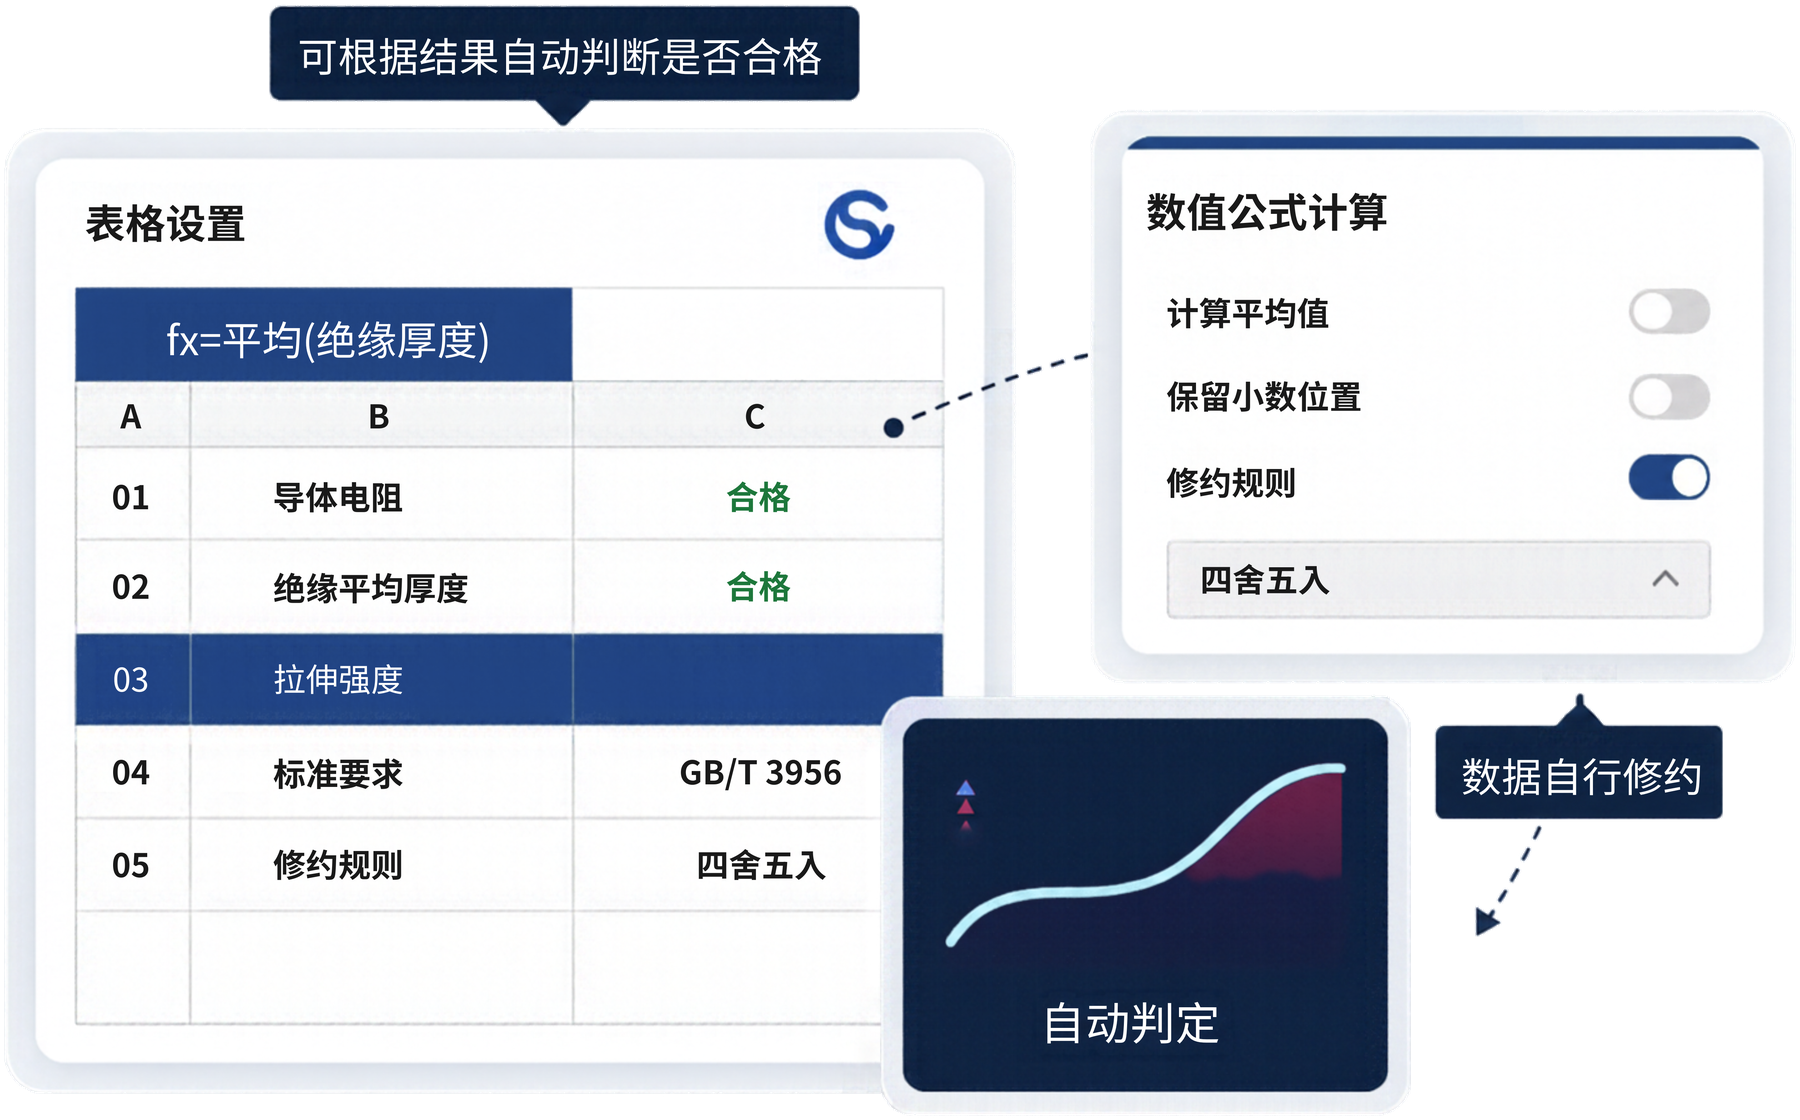
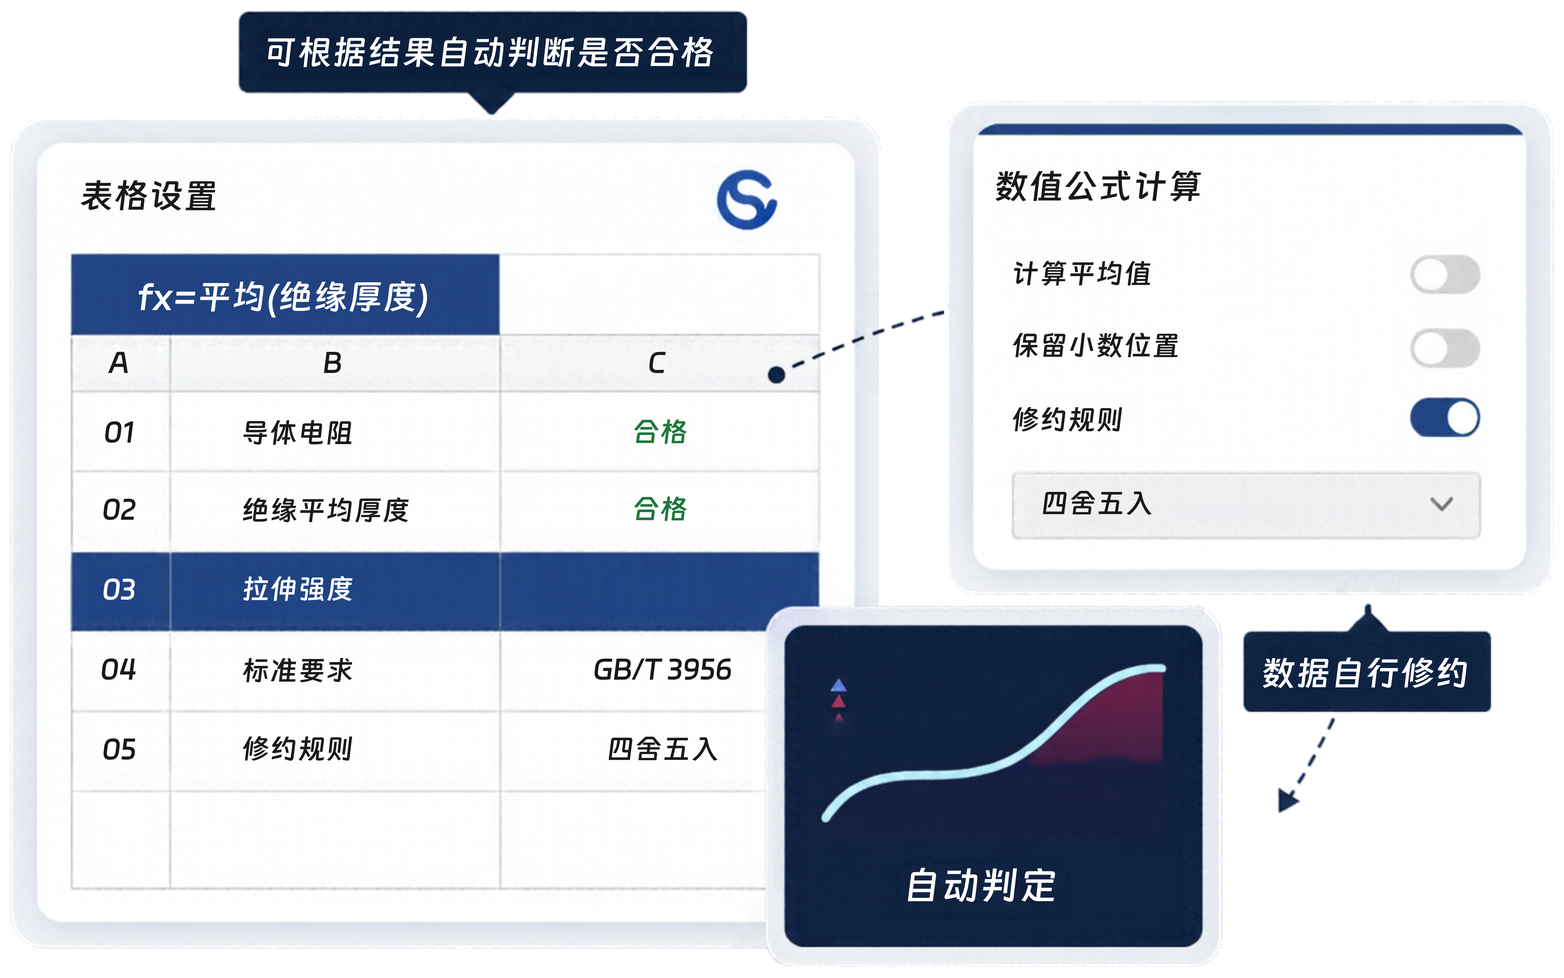
feat: 更换优势1、8、9配图并放大首页插图

diff --git a/shucan-lims-brochure.html b/shucan-lims-brochure.html
@@ -302,10 +302,10 @@
     #top .points { gap: 14px; max-width: 500px; }
     #top .visual {
       position: absolute;
-      left: 40.7%;
-      top: 23.4%;
-      width: 58.2%;
-      height: 66%;
+      left: 23%;
+      top: 20%;
+      width: 76%;
+      height: 72%;
       margin: 0;
       padding: 0;
       min-height: 0;
@@ -464,7 +464,7 @@
             </ul>
           </div>
           <div class="visual">
-            <img class="illu" src="assets/brochure/12-standard-judge.png?v=svg2" alt="表格设置按公式自动判定：导体电阻和绝缘平均厚度合格，拉伸强度不合格。右侧数值公式计算可选择四舍五入，数据自行修约。" />
+            <img class="illu" src="assets/brochure/12-standard-judge.png?v=svg3" alt="表格设置按公式自动判定：导体电阻和绝缘平均厚度合格，拉伸强度不合格。右侧数值公式计算可选择四舍五入，数据自行修约。" />
           </div>
         </article>
         <article class="adv" id="adv-collect">
@@ -580,7 +580,7 @@
             </ul>
           </div>
           <div class="visual">
-            <img class="illu" src="assets/brochure/17-pc-mobile.jpg?v=logo" alt="电脑网页任务查询，进度为已收样、检测中和已出报告。左边手机是 TestOS APP 的报告查询，右边是数据采集 APP" />
+            <img class="illu" src="assets/brochure/17-pc-mobile.png?v=svg" alt="电脑网页任务查询，进度为已收样、检测中和已出报告。左边手机是 TestOS APP 的报告查询，右边是数据采集 APP" />
           </div>
         </article>
       </div>
@@ -592,7 +592,7 @@
         <p class="lead">专为电缆行业打造的“标准化+定制化”交付模式，降低数字化门槛，确保实验室在<strong>低试错成本</strong>下，持续获得行业前沿的技术迭代支持。</p>
       </header>
       <div class="cost-stage">
-        <img src="assets/brochure/20-cost-stage.png?v=svg2" alt="五张卡片环绕一座发光的蓝色多层金字塔：灵活双模部署、标准化加定制化交付、行业工艺开箱即用、阳光报价拒绝隐形、随规迭代持续维护。" />
+        <img src="assets/brochure/20-cost-stage.png?v=svg3" alt="五张卡片环绕一座发光的蓝色多层金字塔：灵活双模部署、标准化加定制化交付、行业工艺开箱即用、阳光报价拒绝隐形、随规迭代持续维护。" />
       </div>
     </section>
 
